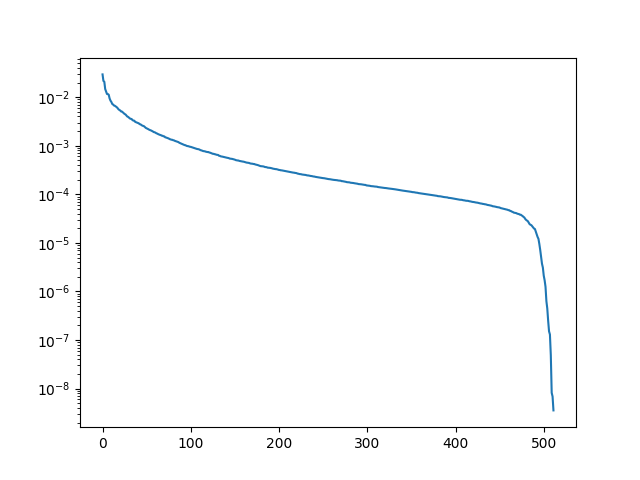
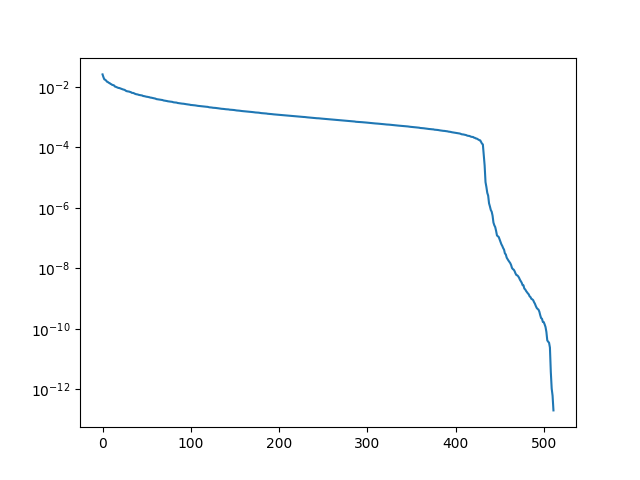
more experiments

diff --git a/main.py b/main.py
@@ -47,10 +47,11 @@ if __name__ == '__main__':
     dim = 128
     cluster_count = 100
     rotation_count = 1
-    path = "/mnt/raid/gits/tda-CLIP/coco_train2017_image_embeds.npy"
-    path2 = "/mnt/raid/gits/tda-CLIP/coco_train2017_text_embeds.npy"
+    base_path = "/mnt/raid/gits/tda-CLIP/cloob_laion_400m_vit_b_16_32_epochs_coco_train2017_embeds/cloob_laion_400m_vit_b_16_32_epochs_coco_train2017_" 
+    path1 = base_path + "image_embeds.npy"
+    path2 = base_path + "text_embeds.npy"
     # generate data
-    image_embeds = np.load(path)
+    image_embeds = np.load(path1)
     text_embeds = np.load(path2)
     both_embeds = np.concatenate((image_embeds, text_embeds), axis=0)
     datasets = [image_embeds, text_embeds, both_embeds]

diff --git a/indexing/faiss_utils.py b/indexing/faiss_utils.py
@@ -63,7 +63,7 @@ def singular_value_plot_faiss(indexer : DenseFlatIndexer, points_per_query = 500
     """
     # get points
     pts = get_cluster_points_faiss(indexer, points_per_query, filter_condition,
-        query_points=None)#np.float32(get_hypersphere_points(set_size=256, dim=indexer.index.d)))
+        query_points=np.float32(get_hypersphere_points(set_size=256, dim=indexer.index.d)))
     # compute the distance to centroid for each of the points
     singular_values = [generate_singular_value_plot(pts[i]) for i in range(len(pts))]
 
